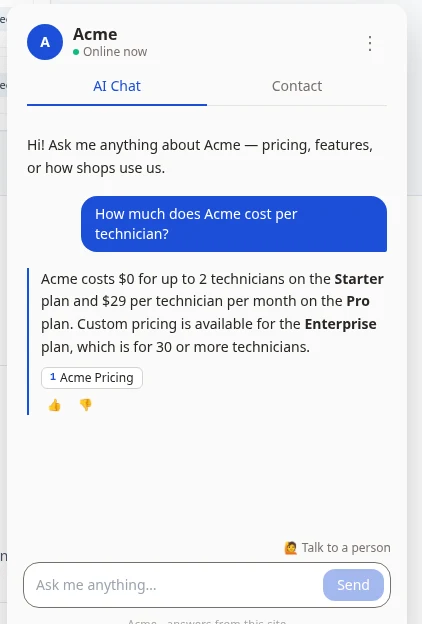
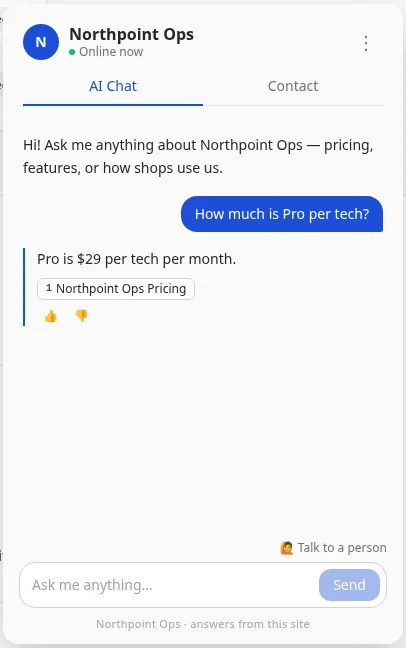
marketing: widget close-up recaptured on Northpoint Ops

diff --git a/src/lib/pages/product.ts b/src/lib/pages/product.ts
@@ -34,7 +34,7 @@ export const PRODUCT: InfoDef[] = [
   answer: "After each answer, Waylo attaches up to three source chips, each linking to a page on your site that the answer used. If no page supports an answer, it doesn’t invent a source; it says it couldn’t find it.",
   metaTitle: "Cited answers and source chips", metaDesc: "Waylo answers website visitors with numbered source chips that link to the exact pages used. How citations work, what visitors see, and how you audit them.",
   blocks: [
-    { t: "shot", eyebrow: "What visitors see", h: "A short answer, then the receipts", shot: "widget", p: ["On the Northpoint Ops demo, “How much does Northpoint Ops cost per technician?” gets a two-sentence answer and a chip labeled **1 · Northpoint Ops Pricing**. Click it and you land on the pricing page the numbers came from.", "That’s the whole idea: a visitor shouldn’t have to trust a chatbot. They can check it in one click."],
+    { t: "shot", eyebrow: "What visitors see", h: "A short answer, then the receipts", shot: "widget", p: ["On the Northpoint Ops demo, “How much is Pro per tech?” gets a one-line answer and a chip labeled **1 · Northpoint Ops Pricing**. Click it and you land on the pricing page the numbers came from.", "That’s the whole idea: a visitor shouldn’t have to trust a chatbot. They can check it in one click."],
       bullets: [["Up to 3 chips", "Per answer, numbered in the order used."], ["Absolute links", "Chips open the real page on your domain."], ["No chip, no claim", "When nothing supports an answer, it says so."]] },
     { t: "prose", eyebrow: "Why it matters", h: "Cited answers change how people read chat", p: ["Most website bots answer confidently and you can’t tell where the words came from. When the answer is wrong, the visitor finds out later, usually on a sales call.", "Showing the source does two things. Visitors trust correct answers more because they can verify them. And wrong answers become easy to spot and fix, because you can see which page the model leaned on.", "It also tells you which pages do the selling. The Content view counts how often each page was cited."],
       aside: { title: "How Waylo picks sources", items: ["Retrieves the pages that best match the question", "The model must list which numbered sources it used", "Waylo turns those numbers into chips", "Guidance facts can answer without a page; those show no chip"] } },

diff --git a/src/components/marketing/Shots.tsx b/src/components/marketing/Shots.tsx
@@ -3,7 +3,7 @@ import Image from "next/image";
 // sample data (anonymous/sample visitors, our own site crawled); demo-site shots are the public /demo page (Northpoint Ops).
 export const SHOTS = {
   answer: { src: "/product/demo-northpoint-answer.webp", w: 1920, h: 1072, where: "waylo-j5hv.onrender.com/demo", alt: "Waylo chat on the Northpoint Ops demo site answering a pricing question with a numbered source chip", caption: "Live /demo: Northpoint Ops is a sample company. The answer quotes Northpoint Ops’ pricing page and links it." },
-  widget: { src: "/product/widget-answer.webp", w: 422, h: 624, where: "Chat widget", alt: "Close-up of the Waylo chat widget: AI Chat and Contact tabs, a cited answer, thumbs feedback, and Talk to a person", caption: "The widget: AI Chat and Contact tabs, source chip, 👍/👎, “Talk to a person”." },
+  widget: { src: "/product/widget-answer.webp", w: 406, h: 648, where: "Chat widget", alt: "Close-up of the Waylo chat widget: AI Chat and Contact tabs, a cited answer, thumbs feedback, and Talk to a person", caption: "The widget: AI Chat and Contact tabs, source chip, 👍/👎, “Talk to a person”." },
   demoHome: { src: "/product/demo-northpoint-home.webp", w: 1920, h: 1072, where: "waylo-j5hv.onrender.com/demo", alt: "Northpoint Ops demo site with the Waylo launcher button in the corner", caption: "Launcher mode: one round button bottom-right, chat loads only when opened." },
   demoPricing: { src: "/product/demo-northpoint-pricing.webp", w: 1920, h: 1072, where: "waylo-j5hv.onrender.com/demo/pricing", alt: "Northpoint Ops demo pricing page", caption: "The page the answer cited. Visitors can click through and check." },
   home: { src: "/product/admin-home.webp", w: 1440, h: 900, where: "Admin → Home", alt: "Waylo admin home with the go-live checklist, conversation, question, contact form and high-intent counts, and a 14-day questions chart", caption: "Admin home: go-live checklist, today’s numbers, questions over 14 days." },
